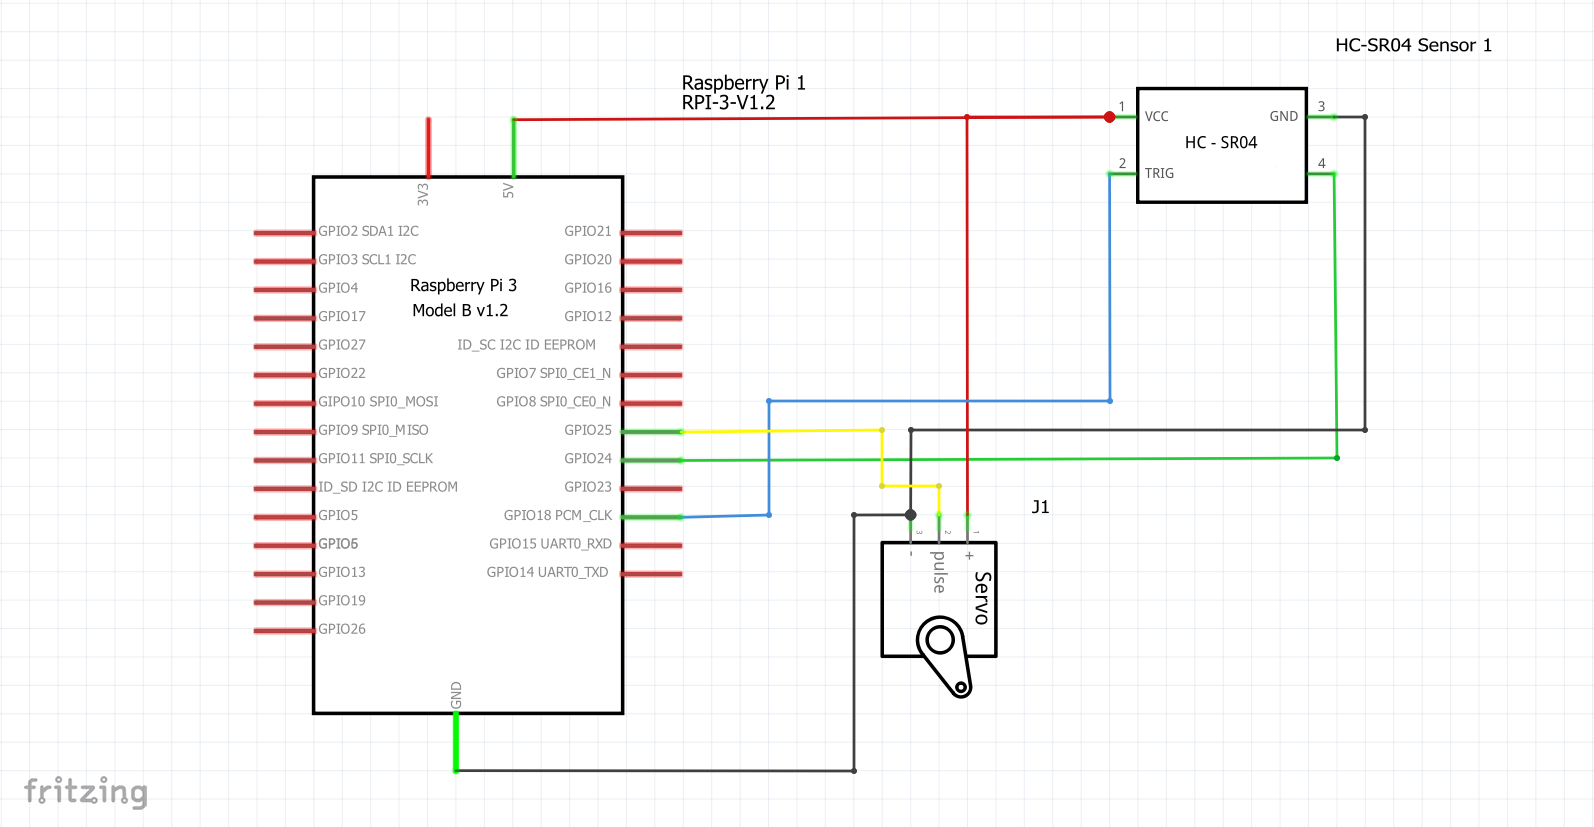
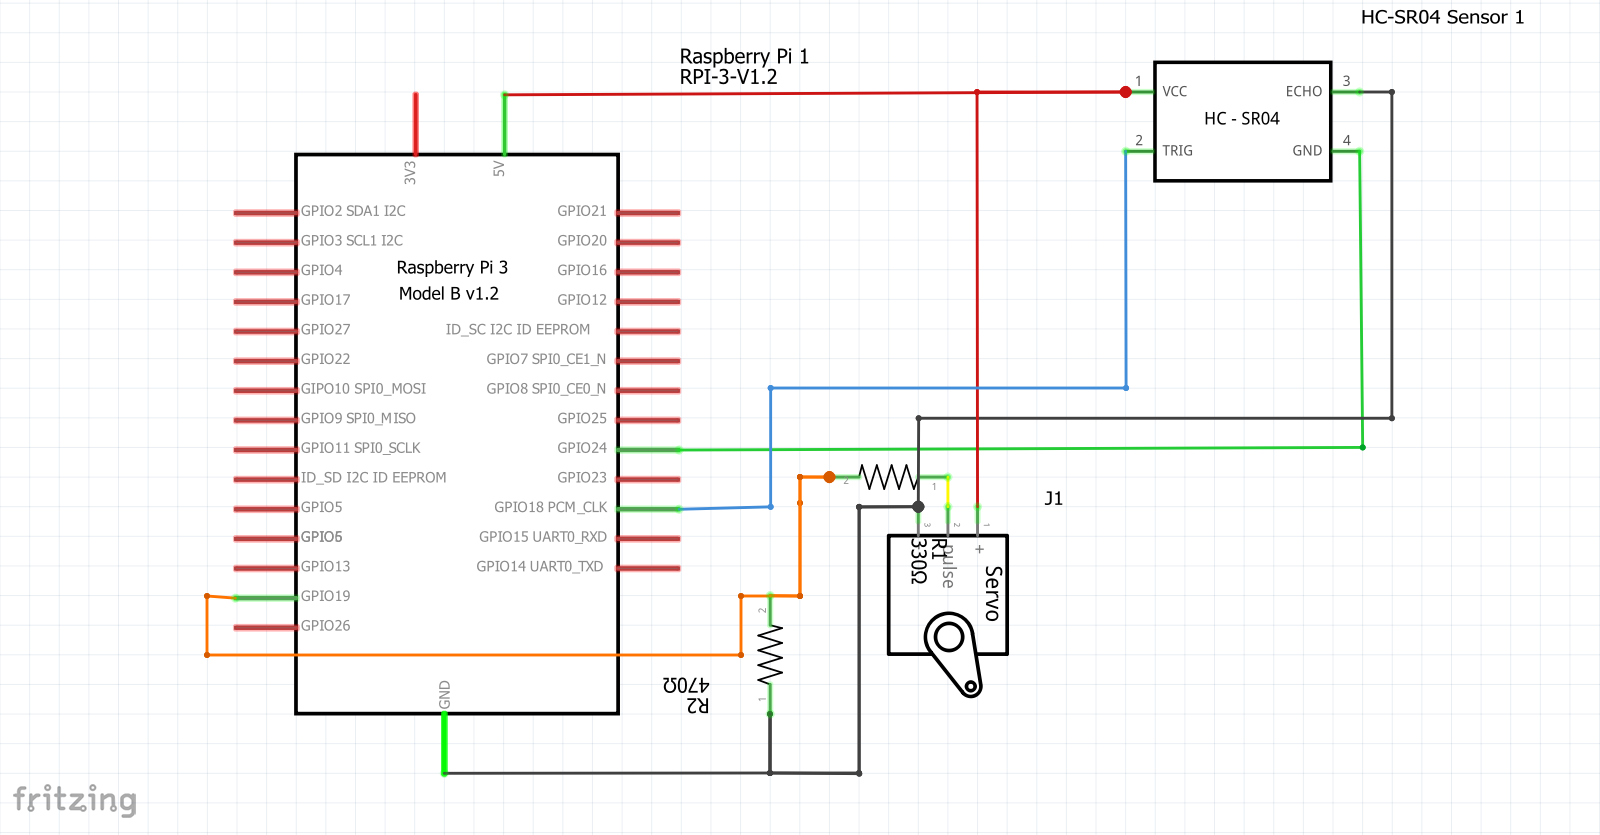
update README.md

Changed region(s): [[0.123, 0.0605, 0.8915, 0.9371], [0.83, 0.0, 0.9529, 0.0605], [0.0, 0.9371, 0.0922, 0.9976]]

diff --git a/README.md b/README.md
@@ -20,7 +20,7 @@ All files in the folder `files`.
 ![wiring](files/wiring/wiring.png)
 ![schematic wiring](files/wiring/schematic_wiring.png)
 Just note that :
-- servo `pulse` goes to GPIO25
+- servo `pulse` goes to GPIO19
 - HC-SR04 `trigger` goes to GPIO18
 - HC-SR04 `echo` goes to GPIO24 through resistor (see scheme)
 
